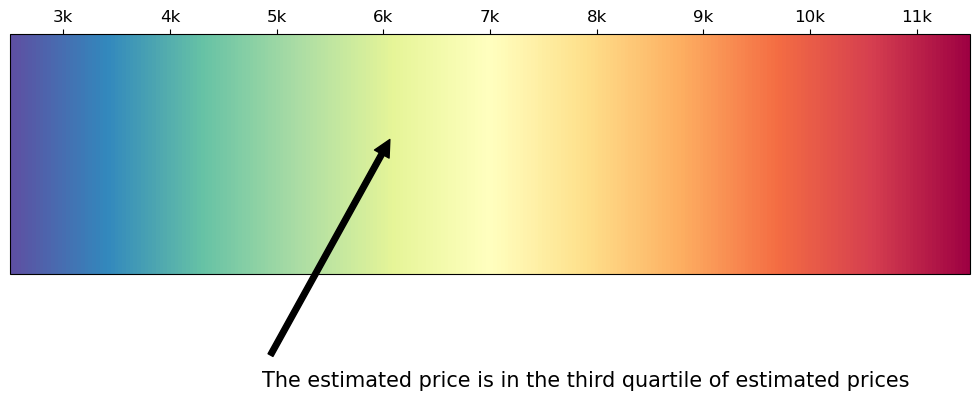
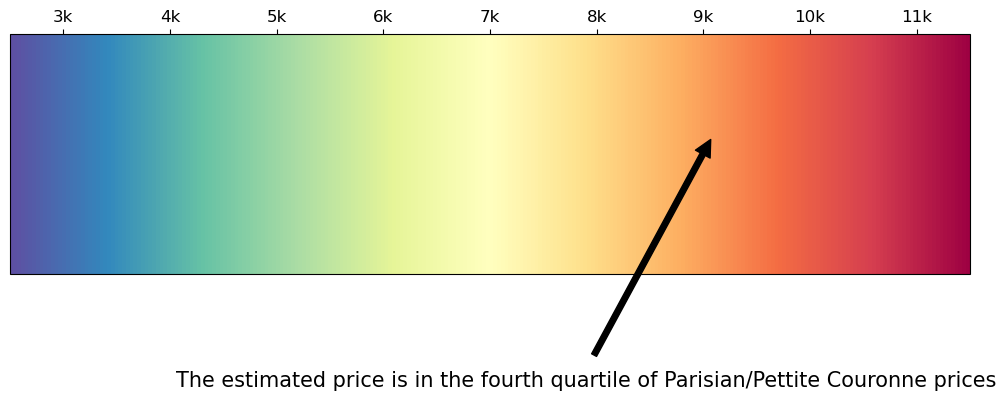
small corrections

diff --git a/our-app-project-css/templates/arrive.html b/our-app-project-css/templates/arrive.html
@@ -29,7 +29,7 @@
         <button class="btn btn btn-sm"><strong><font color="black">About Us</font> </strong></button> </a>
         <a href="{{ url_for('index')}}"> <button class="btn btn btn-sm"><strong><font color="black">&nbsp;&nbsp;Home&nbsp;&nbsp;</font> </strong></button></a>&nbsp;&nbsp;&nbsp;</div></h1><br />
 
-    <h2 align="center"> Estimated price per squared meter: <strong>{{ message }} Euros</strong></h2>
+    <h2 align="center"> Estimated price per square meter: <strong>{{ message }} Euros</strong></h2>
 
     <p align="center"> 
       <img src="/static/output.png"/>

diff --git a/our-app-project-css/app.py b/our-app-project-css/app.py
@@ -254,7 +254,7 @@ loaded_model = joblib.load('static/finalized_model.sav')
 
 # %% FIGURE
 def generate_cb(prediction):
-    message = lambda x: f'The estimated price is in the {x} quartile of estimated prices'
+    message = lambda x: f'The estimated price is in the {x} quartile of Parisian/Pettite Couronne prices'
 
     if prediction < 4133.1714:
         msg = message('first')
